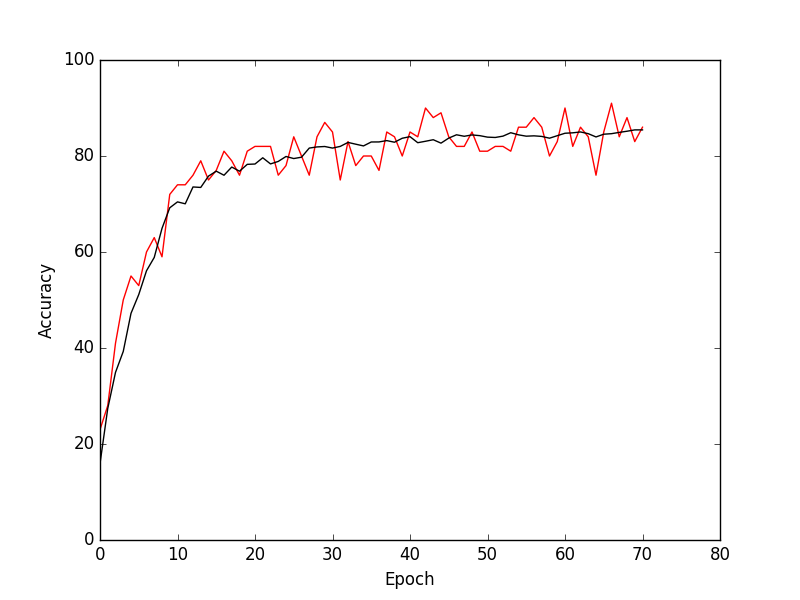
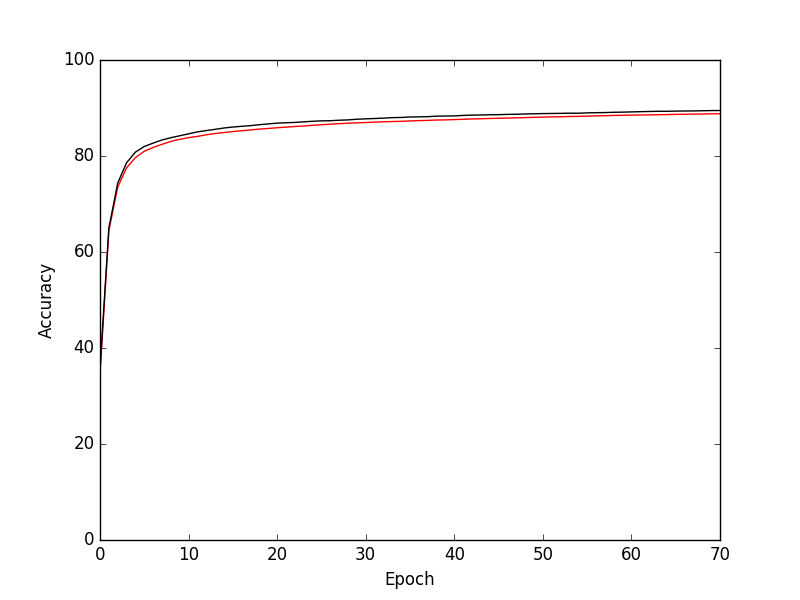
Add files via upload

diff --git a/linear.py b/linear.py
@@ -24,8 +24,7 @@ func = tf.matmul(X, weights) + biases
 pred = tf.nn.softmax(func)  
 
 # Implement cross entropy function
-cross_entropy = tf.nn.softmax_cross_entropy_with_logits(logits=func, labels=Y)
-#cross_entropy = -tf.reduce_sum(Y * tf.log(pred))
+cross_entropy = tf.reduce_mean(-tf.reduce_sum(Y*tf.log(pred), reduction_indices=1))
 
 # Minimize cross_entropy using gradient descent algorithm with learning rate
 correct_prediction = tf.equal(tf.argmax(Y, 1), tf.argmax(pred, 1))
@@ -38,22 +37,27 @@ init = tf.global_variables_initializer()
 
 with tf.Session() as sess:
     sess.run(init)
-    
-    train_list=[]
-    test_list=[]
+
+    train_list=[] 
+    test_list=[] 
     # Training 70 epochs
     for epoch in range(training_epochs+1):
-        batch_x, batch_y = mnist.train.next_batch(batch_size)
-        sess.run(train_step,
-		feed_dict={X: batch_x, Y: batch_y})
-        train_accuracy = sess.run(accuracy, 
-		feed_dict={X: batch_x, Y: batch_y})
-        test_accuracy = sess.run(accuracy, 
-	        feed_dict={X: mnist.test.images, Y: mnist.test.labels})
+	avg_train=0
+	avg_test=0
+	tot_batch=int(mnist.train.num_examples/batch_size)
+
+        for bc in range(tot_batch):
+	        batch_x, batch_y = mnist.train.next_batch(batch_size)
+	        _,train_accuracy = sess.run([train_step,accuracy], 
+			feed_dict={X: batch_x, Y: batch_y})
+		avg_train += train_accuracy / tot_batch
+	        test_accuracy = sess.run(accuracy, 
+		        feed_dict={X: mnist.test.images, Y: mnist.test.labels})
+		avg_test += test_accuracy / tot_batch
         print("Epoch: %d, Train accuracy: %.4f, Test accuracy: %.4f" 
-            % (epoch, train_accuracy, test_accuracy))
-        train_list.append(train_accuracy*100) 
-        test_list.append(test_accuracy*100) 
+            % (epoch+1, avg_train, avg_test))
+        train_list.append(avg_train*100) 
+        test_list.append(avg_test*100) 
        
 	
     # Print confusion matrix
@@ -66,7 +70,7 @@ with tf.Session() as sess:
     # Plot accuracy
     plt.xlabel('Epoch')
     plt.ylabel('Accuracy')
-    plt.axis([0, 80, 0, 100])
+    plt.axis([0, 70, 0, 100])
     plt.plot(np.array(range(0,training_epochs+1)), np.array(train_list), 'r-', label='train')
     plt.plot(np.array(range(0,training_epochs+1)), np.array(test_list), 'k-', label='test')
     plt.show()
